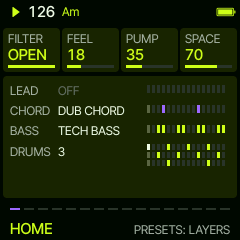
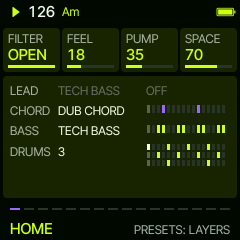
The header says what the keys play; HOME shows an OFF layer's sound
Claude-Session: https://claude.ai/code/session_01VgesZgNNDFiPGvKyDTZVUK

Changed region(s): [[0.6125, 0.35, 0.9625, 0.4083], [0.2333, 0.35, 0.4958, 0.4083]]

diff --git a/firmware/src/sa_ui.c b/firmware/src/sa_ui.c
@@ -859,9 +859,9 @@ static void sv_panel_home(sa_ui *u)
         const sa_code *c = &g->s.code[l];
         bool mute = g->s.live[l].mute, off = c->pat == SA_PAT_OFF && !c->own, pend = sa_layer_pending(g, l);
         sv_label(10, y + 2, SV_VIEW_NAME[v], T_MID);
-        cv_free_text(58, y + 2, &AF_S, off ? "OFF" : sas_of(c->sound)->name, mute || off ? T_DIM : pend ? T_ACCENT : T_TEXT,
-                     T_SURF, 84);
-        sv_strip(146, y + 4, 88, 8, off ? 0 : sv_play_bits(u, l), now, v == SV_V_BASS ? T_THEME : T_ACCENT, mute || off);
+        cv_free_text(58, y + 2, &AF_S, sas_of(c->sound)->name, mute || off ? T_DIM : pend ? T_ACCENT : T_TEXT, T_SURF, 84);
+        if (off) cv_text_on(146, y + 2, &AF_S, "OFF", T_DIM, T_SURF);   /* (OFF: its sound still shown) */
+        else sv_strip(146, y + 4, 88, 8, sv_play_bits(u, l), now, v == SV_V_BASS ? T_THEME : T_ACCENT, mute);
         if (mute) cv_rect(146, y + 7, 88, 2, T_ACCENT);
     }
     int32_t y = 66;
@@ -1448,6 +1448,12 @@ void sv_key(sa_ui *u, int note, bool down)
         }
     }
     if (down) {
+        char m[32];                                /* what the keys play, briefly in the header */
+        sv_cpy(m, "KEYS: ", sizeof m);
+        sv_cat(m, lay ? SV_VIEW_NAME[u->view] : "LEAD", sizeof m);
+        sv_cat(m, ", ", sizeof m);
+        sv_cat(m, sv_layer_name(u, layer), sizeof m);
+        sv_msg(u, m);
         u->key_sent[k] = note + 12 * u->oct;
         sa_key(u->g, k, u->key_sent[k], true, layer);
     } else {

diff --git a/tests/sa_ui_test.c b/tests/sa_ui_test.c
@@ -215,6 +215,9 @@ int main(int argc, char **argv)
     all_palettes("chord");
     sv_knob(&ui, SV_K_PRESETS, 1);
     CHECK(ui.view == SV_V_BASS && ui.layer == SA_L_BASS, "PRESETS: BASS");
+    sv_key(&ui, 57, true);
+    CHECK(ui.msg_ms > 0 && !strncmp(ui.msg, "KEYS: BASS, ", 12), "a key: what it plays (%s)", ui.msg);
+    sv_key(&ui, 57, false);
     int cut = g.s.live[SA_L_BASS].cut;
     sv_knob(&ui, SV_K1, -10);
     CHECK(g.s.live[SA_L_BASS].cut == cut - 20, "BASS's CUTOFF at once");

diff --git a/docs/MANUAL.md b/docs/MANUAL.md
@@ -34,8 +34,8 @@ The footer shows the layer, a dot for each of its pages (the one open lit) and w
 
 ## HOME
 
-Every layer playing: LEAD, CHORD and BASS with their sound and their bar, DRUMS a thin bar for each drum; OFF and
-muted layers dimmed. The knobs act at once: **FILTER** (the whole mix darker to the left, OPEN at the top), **FEEL**
+Every layer playing: LEAD, CHORD and BASS with their sound and their bar, DRUMS a thin bar for each drum; an OFF layer
+shows its sound dimmed and OFF, a muted one is crossed out. The knobs act at once: **FILTER** (the whole mix darker to the left, OPEN at the top), **FEEL**
 (the swing of the off sixteenths), **PUMP** (how deep the synth layers duck under the kick) and **SPACE** (the room:
 reverb and delay together; at 70 each sound has its own).
 
@@ -130,7 +130,8 @@ drums do not. A key change waits for SEQ. SCL again goes back.
 
 ## The keys
 
-The keys play the layer open, live, snapped to the scale (on HOME: LEAD); with REC they write its steps. They never
+The keys play the layer open, live, snapped to the scale (on HOME: LEAD); the header says what, briefly (KEYS: LEAD,
+SAW LEAD). With REC they write its steps. They never
 change a setting.
 
 ## SETS
